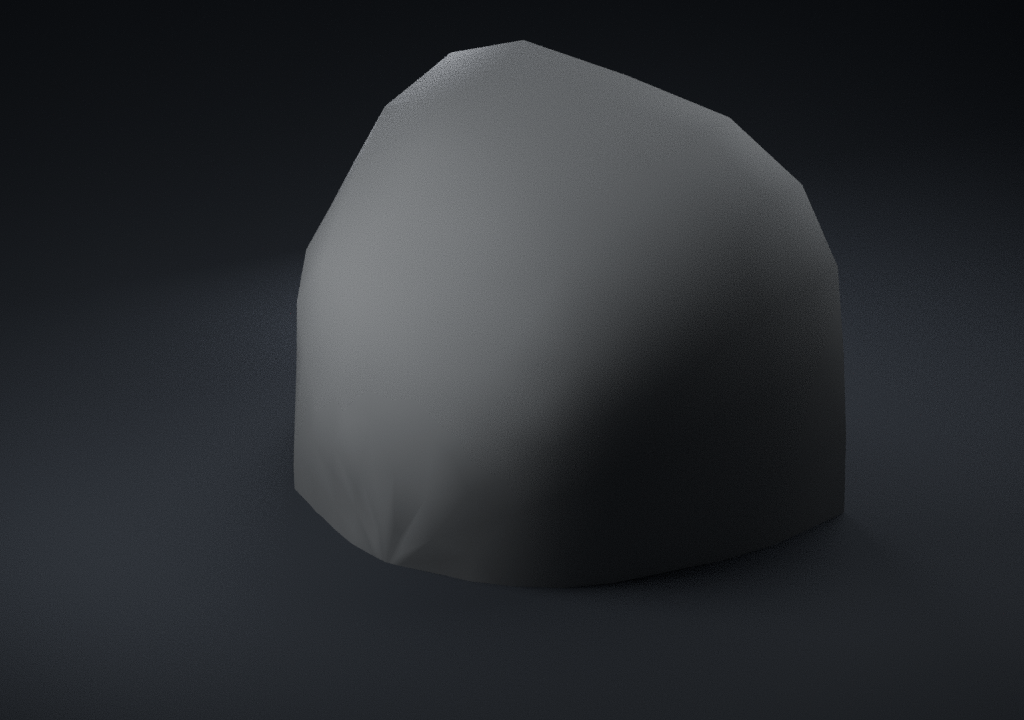
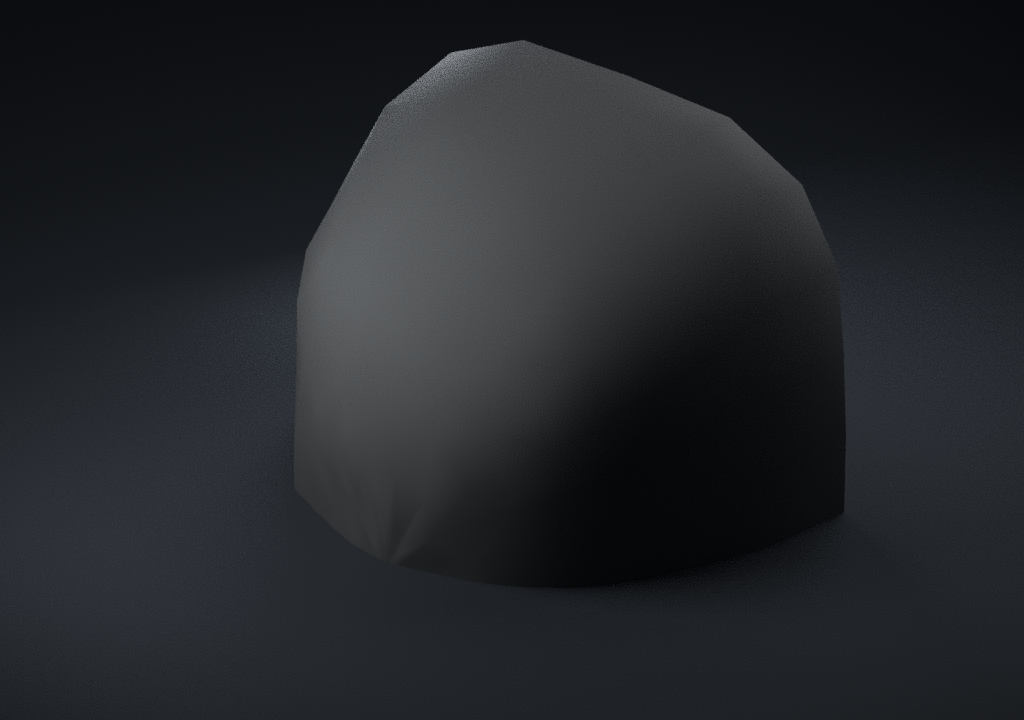
Darken the dungeon cave shell

Changed region(s): [[0.2812, 0.0611, 0.8125, 0.7639]]

diff --git a/volcanic-dragon/dungeon/build_dungeon_cave.py b/volcanic-dragon/dungeon/build_dungeon_cave.py
@@ -149,7 +149,8 @@ def main():
     bpy.ops.wm.read_factory_settings(use_empty=True)
     options.output.parent.mkdir(parents=True, exist_ok=True)
 
-    cave = build_cave(material("Plain matte gray cave", .19, .86))
+    # The exported linear value matches the Studio shell color of RGB 84.
+    cave = build_cave(material("Plain matte gray cave", .088656, .86))
     gate = build_gate(material("Plain dark gray iron", .047, .68, .21))
     assert gate, "Expected gate meshes"
     print(f"Exporting plain-gray cave and {len(gate)} gate meshes ({len(cave.data.polygons)} shell faces).")

diff --git a/volcanic-dragon/dungeon/README.md b/volcanic-dragon/dungeon/README.md
@@ -1,6 +1,6 @@
 # Broken Dungeon Cave
 
-A plain gray cave with a tall, angular opening, a beveled entrance, and a shallow shell that curves down into a rounded back. The dark gray gate has longer torn bars overhead and broken lower ends above both claws. The upper side bars and rails remain attached to the arch.
+A plain charcoal-gray cave with a tall, angular opening, a beveled entrance, and a shallow shell that curves down into a rounded back. The dark gray gate has longer torn bars overhead and broken lower ends above both claws. The upper side bars and rails remain attached to the arch.
 
 [Download the GLB](DragonDungeonCave.glb) · [Front preview](DungeonCavePreview.png) · [Rear preview](DungeonCaveRear.png)
 
@@ -12,9 +12,9 @@ A plain gray cave with a tall, angular opening, a beveled entrance, and a shallo
 
 ### Apply the colors in Studio
 
-If the shell and gate import in the same color, select the cave model in Explorer. Copy the full [color fix](ApplyDungeonCaveColors.command.luau) into Studio's Command Bar in Edit mode and run it once. Click off the model to see the separate grays.
+Select the shell MeshPart in Explorer to darken just the cave, or select the full cave model to color the shell and gate. Copy the full [color fix](ApplyDungeonCaveColors.command.luau) into Studio's Command Bar in Edit mode and run it once. Click off the selection to see the new shade.
 
-You can also set **Color** in Properties to RGB `121, 121, 121` for the shell and `61, 61, 61` for all three gate meshes. Use **SmoothPlastic** for a plain finish.
+You can also set **Color** in Properties to RGB `84, 84, 84` for the shell and `61, 61, 61` for all three gate meshes. Use **SmoothPlastic** for a plain finish.
 
 ## Rebuild in Blender
 
